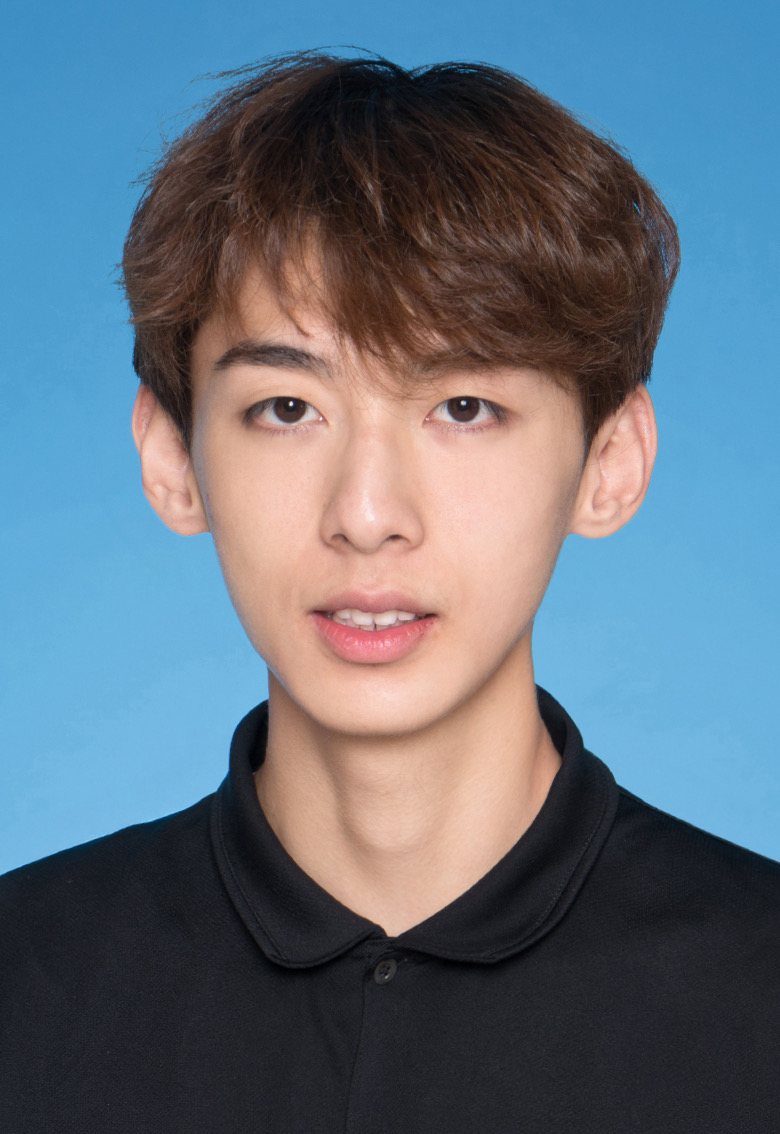
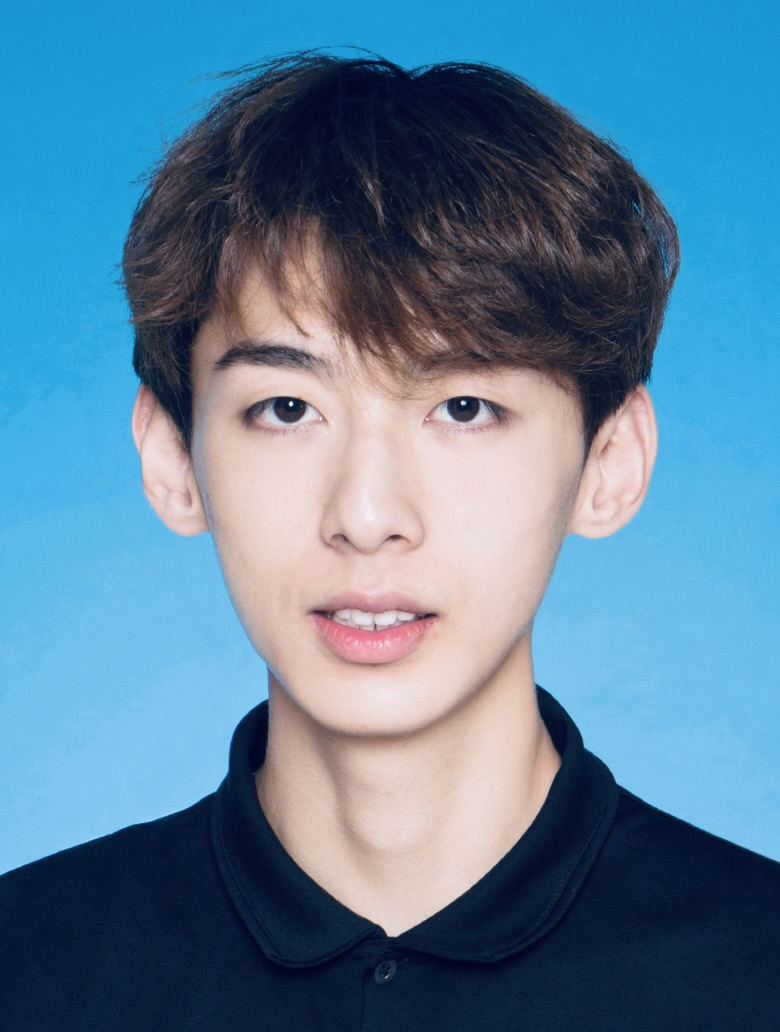
Refine academic profile, research descriptions, laboratory captions, and portrait

diff --git a/index.html b/index.html
@@ -25,26 +25,28 @@
       <section class="intro" id="about" aria-labelledby="name">
         <div class="intro-copy">
           <h1 id="name">Taining An</h1>
-          <p>Hi, I’m Taining. I completed my M.S. in Sports Training at Beijing Sport University, where I designed and ran a study of exercise and time-restricted eating in young adults with obesity. My work has included supervising exercise interventions, conducting physiological tests, and processing blood samples.</p>
-          <p>I started out as a volleyball athlete, focused on my own training. During my master’s, I began studying the effects of exercise on the body. Now, I want to understand how and why those changes happen.</p>
-          <p>During my master’s, I became interested in how exercise and eating patterns affect metabolic health, particularly how changes in inflammation relate to fat loss. For my Ph.D., I’d like to build on my experience in human studies and explore the mechanisms behind these responses.</p>
+          <p>Hi, I’m Taining. I completed my M.S. in Sports Training at Beijing Sport University. My research experience includes human exercise interventions, physiological testing, and blood sample processing.</p>
+          <p>I started out as a volleyball athlete, focused on my own training. During my master’s, I began studying the effects of exercise on the body.</p>
+          <p>I’m interested in how exercise and nutrition influence human physiology and health. For my Ph.D., I’d like to build on my experience in human studies and better understand the mechanisms behind these effects.</p>
           <div class="intro-links">
             <a href="mailto:2024240916@bsu.edu.cn">Email</a>
             <a href="Taining-An-CV.pdf" target="_blank" rel="noopener">Curriculum vitae <span aria-hidden="true">↗</span></a>
           </div>
         </div>
         <figure class="portrait">
-          <img src="taining-an-portrait.jpg" width="780" height="1134" fetchpriority="high" decoding="async" alt="Taining An in a black polo shirt against a blue background.">
+          <img src="taining-an-portrait.jpg?v=20261015" width="780" height="1032" fetchpriority="high" decoding="async" alt="Taining An in a black polo shirt against a blue background.">
           <figcaption>M.S., Beijing Sport University</figcaption>
         </figure>
       </section>
       <section class="section" id="research" aria-labelledby="research-title">
         <h2 id="research-title">Research</h2>
-        <h3>Exercise, eating patterns, and inflammation</h3>
+        <div class="project-heading"><h3>Exercise, Diet, and Inflammation</h3><span class="project-label">Master’s Research</span></div>
         <p>I designed and led the day-to-day management of an eight-week, four-arm randomized trial involving 122 young adults with obesity. We compared high-intensity functional training plus aerobic exercise, time-restricted eating, their combination, and a control group.</p>
-        <p>My responsibilities included recruitment, randomization, exercise supervision, adherence monitoring, DXA assessments, and fasting blood sample processing. The study examined body composition and inflammatory markers, including SII, IL-6, and TNF-α.</p>
-        <p class="research-question">The question I want to explore further: <strong>Can exercise reduce inflammation independently of fat loss?</strong></p>
-        <p class="secondary">My wider experience includes treadmill VO₂max testing, force-platform assessments, PBMC isolation, and DNA extraction. More detail is in my <a href="Taining-An-CV.pdf" target="_blank" rel="noopener">CV</a>.</p>
+        <p>We examined how these interventions affected body composition and inflammatory markers, including the systemic immune-inflammation index (SII), IL-6, and TNF-α.</p>
+        <p class="research-question">Key question in my master’s research: <strong>Can exercise reduce inflammation independently of fat loss?</strong></p>
+        <h3 class="additional-research-heading">Physiological Testing and Laboratory Skills</h3>
+        <p>I contributed to a smartwatch validation project at Beijing Sport University, conducting treadmill VO₂max testing with elite runners. I also have experience with force-platform assessments.</p>
+        <p>My laboratory experience includes fasting blood sample processing, PBMC isolation, and DNA extraction. More detail is in my <a href="Taining-An-CV.pdf" target="_blank" rel="noopener">CV</a>.</p>
         <h3 class="publications-heading" id="publications">Selected publications &amp; ongoing work</h3>
         <ol class="publications">
           <li>
@@ -82,16 +84,16 @@
   <figcaption><p class="photo-category">Physiological testing</p><p class="photo-title">VO₂max testing</p><p class="photo-caption">Conducting maximal oxygen uptake (VO₂max) testing with participants with obesity.</p></figcaption>
 </figure>
 <figure class="research-photo">
-  <a class="photo-link is-rotated" href="photos--sample-centrifugation.jpg" target="_blank" rel="noopener" data-photo="2" data-rotation="-90" data-title="Blood sample processing" data-caption="Preparing samples and operating a centrifuge during laboratory processing." aria-label="Enlarge photograph: Blood sample processing">
-    <img src="photos--sample-centrifugation.jpg" width="1280" height="1707" loading="lazy" decoding="async" alt="Preparing samples and operating a centrifuge during laboratory processing.">
+  <a class="photo-link is-rotated" href="photos--sample-centrifugation.jpg" target="_blank" rel="noopener" data-photo="2" data-rotation="-90" data-title="Laboratory Work" data-caption="Isolating and washing peripheral blood mononuclear cells (PBMCs)." aria-label="Enlarge photograph: Laboratory Work">
+    <img src="photos--sample-centrifugation.jpg" width="1280" height="1707" loading="lazy" decoding="async" alt="Isolating and washing peripheral blood mononuclear cells (PBMCs).">
   </a>
-  <figcaption><p class="photo-category">Laboratory work</p><p class="photo-title">Blood sample processing</p><p class="photo-caption">Preparing samples and operating a centrifuge during laboratory processing.</p></figcaption>
+  <figcaption><p class="photo-title">Laboratory Work</p><p class="photo-caption">Isolating and washing peripheral blood mononuclear cells (PBMCs).</p></figcaption>
 </figure>
 <figure class="research-photo">
-  <a class="photo-link" href="photos--blood-sample-processing.jpg" target="_blank" rel="noopener" data-photo="14" data-rotation="0" data-title="Blood sample processing" data-caption="Processing blood samples from study participants." aria-label="Enlarge photograph: Blood sample processing">
-    <img src="photos--blood-sample-processing.jpg" width="1280" height="1707" loading="lazy" decoding="async" alt="Processing blood samples from study participants.">
+  <a class="photo-link" href="photos--blood-sample-processing.jpg" target="_blank" rel="noopener" data-photo="14" data-rotation="0" data-title="Laboratory Work" data-caption="Separating serum from participants’ blood samples." aria-label="Enlarge photograph: Laboratory Work">
+    <img src="photos--blood-sample-processing.jpg" width="1280" height="1707" loading="lazy" decoding="async" alt="Separating serum from participants’ blood samples.">
   </a>
-  <figcaption><p class="photo-category">Laboratory work</p><p class="photo-title">Blood sample processing</p><p class="photo-caption">Processing blood samples from study participants.</p></figcaption>
+  <figcaption><p class="photo-title">Laboratory Work</p><p class="photo-caption">Separating serum from participants’ blood samples.</p></figcaption>
 </figure>
 <figure class="research-photo">
   <a class="photo-link" href="photos--one-repetition-maximum.jpg" target="_blank" rel="noopener" data-photo="11" data-rotation="0" data-title="One-repetition maximum (1RM) testing" data-caption="Conducting 1RM testing with participants." aria-label="Enlarge photograph: One-repetition maximum (1RM) testing">
@@ -100,10 +102,10 @@
   <figcaption><p class="photo-category">Physiological testing</p><p class="photo-title">One-repetition maximum (1RM) testing</p><p class="photo-caption">Conducting 1RM testing with participants.</p></figcaption>
 </figure>
 <figure class="research-photo">
-  <a class="photo-link" href="research--blood-sample-processing.jpg" target="_blank" rel="noopener" data-photo="15" data-rotation="0" data-title="Blood sample processing" data-caption="Processing participants’ blood samples in the laboratory." aria-label="Enlarge photograph: Blood sample processing">
+  <a class="photo-link" href="research--blood-sample-processing.jpg" target="_blank" rel="noopener" data-photo="15" data-rotation="0" data-title="Laboratory Work" data-caption="Processing participants’ blood samples in the laboratory." aria-label="Enlarge photograph: Laboratory Work">
     <img src="research--blood-sample-processing.jpg" width="1282" height="1404" loading="lazy" decoding="async" alt="Processing participants’ blood samples in the laboratory.">
   </a>
-  <figcaption><p class="photo-category">Laboratory work</p><p class="photo-title">Blood sample processing</p><p class="photo-caption">Processing participants’ blood samples in the laboratory.</p></figcaption>
+  <figcaption><p class="photo-title">Laboratory Work</p><p class="photo-caption">Processing participants’ blood samples in the laboratory.</p></figcaption>
 </figure>
 <!-- END_FEATURED_PHOTOS -->
         </div>
@@ -168,7 +170,7 @@
     <source src="videos--treadmill-testing-2.mp4" type="video/mp4">
     <a href="videos--treadmill-testing-2.mp4">Open video: Physiological testing</a>
   </video>
-  <figcaption><div class="video-title-row"><strong>Physiological testing</strong><span class="video-duration">0:19</span></div><p class="video-caption" id="video-description-2">Conducting treadmill VO₂max testing with elite runners as part of a Xiaomi smartwatch validation project at Beijing Sport University. My role included fitting gas-analysis masks, managing the treadmill protocol, and monitoring gas-exchange data with a Cortex metabolic analyzer.</p></figcaption>
+  <figcaption><div class="video-title-row"><strong>Physiological testing</strong><span class="video-duration">0:19</span></div><p class="video-caption" id="video-description-2">Conducting treadmill VO₂max testing with elite runners for a Xiaomi smartwatch validation project.</p></figcaption>
 </figure>
 <!-- END_FEATURED_VIDEOS -->
           </div>
@@ -207,3 +209,4 @@
   </dialog>
 </body>
 </html>
+

diff --git a/styles.css b/styles.css
@@ -39,6 +39,7 @@ nav a{white-space:nowrap}
 .photo-link.is-rotated img{position:absolute;left:50%;top:50%;width:min(var(--photo-height),74.98535%);height:auto;transform:translate(-50%,-50%) rotate(-90deg)}
 .photo-category{font-size:10px;color:var(--muted);margin-top:10px;letter-spacing:.3px}
 .photo-title{font-size:13px;font-weight:600;line-height:1.45;margin-top:2px}
+.research-photo figcaption>.photo-title:first-child{margin-top:10px}
 .photo-caption{font-size:12px;color:var(--muted);line-height:1.55;margin-top:5px}
 .more-media{margin-top:23px}
 .more-media>summary{width:fit-content;color:var(--accent);font-size:13px;cursor:pointer;list-style:none;padding:5px 0;border-bottom:1px solid #b8c9c2}
@@ -88,3 +89,9 @@ footer a{text-decoration:none;white-space:nowrap}
 @media(max-width:350px){.page{padding:0 14px}.site-header{align-items:flex-start;flex-direction:column;gap:10px}.gallery-grid{--photo-height:130px}}
 @media(prefers-reduced-motion:reduce){html{scroll-behavior:auto}}
 @media print{nav,.more-media>summary,.video-section,.photo-dialog,footer>a{display:none}.page{max-width:none}.intro{padding-top:20px}.section{break-inside:avoid}.gallery-grid{grid-template-columns:repeat(3,1fr)}}
+
+.project-heading{display:flex;align-items:baseline;flex-wrap:wrap;gap:8px 18px;margin:0 0 15px}
+.project-heading h3{margin:0}
+.project-label{font-size:12px;font-weight:400;color:var(--muted);white-space:nowrap}
+.additional-research-heading{margin-top:30px}
+
